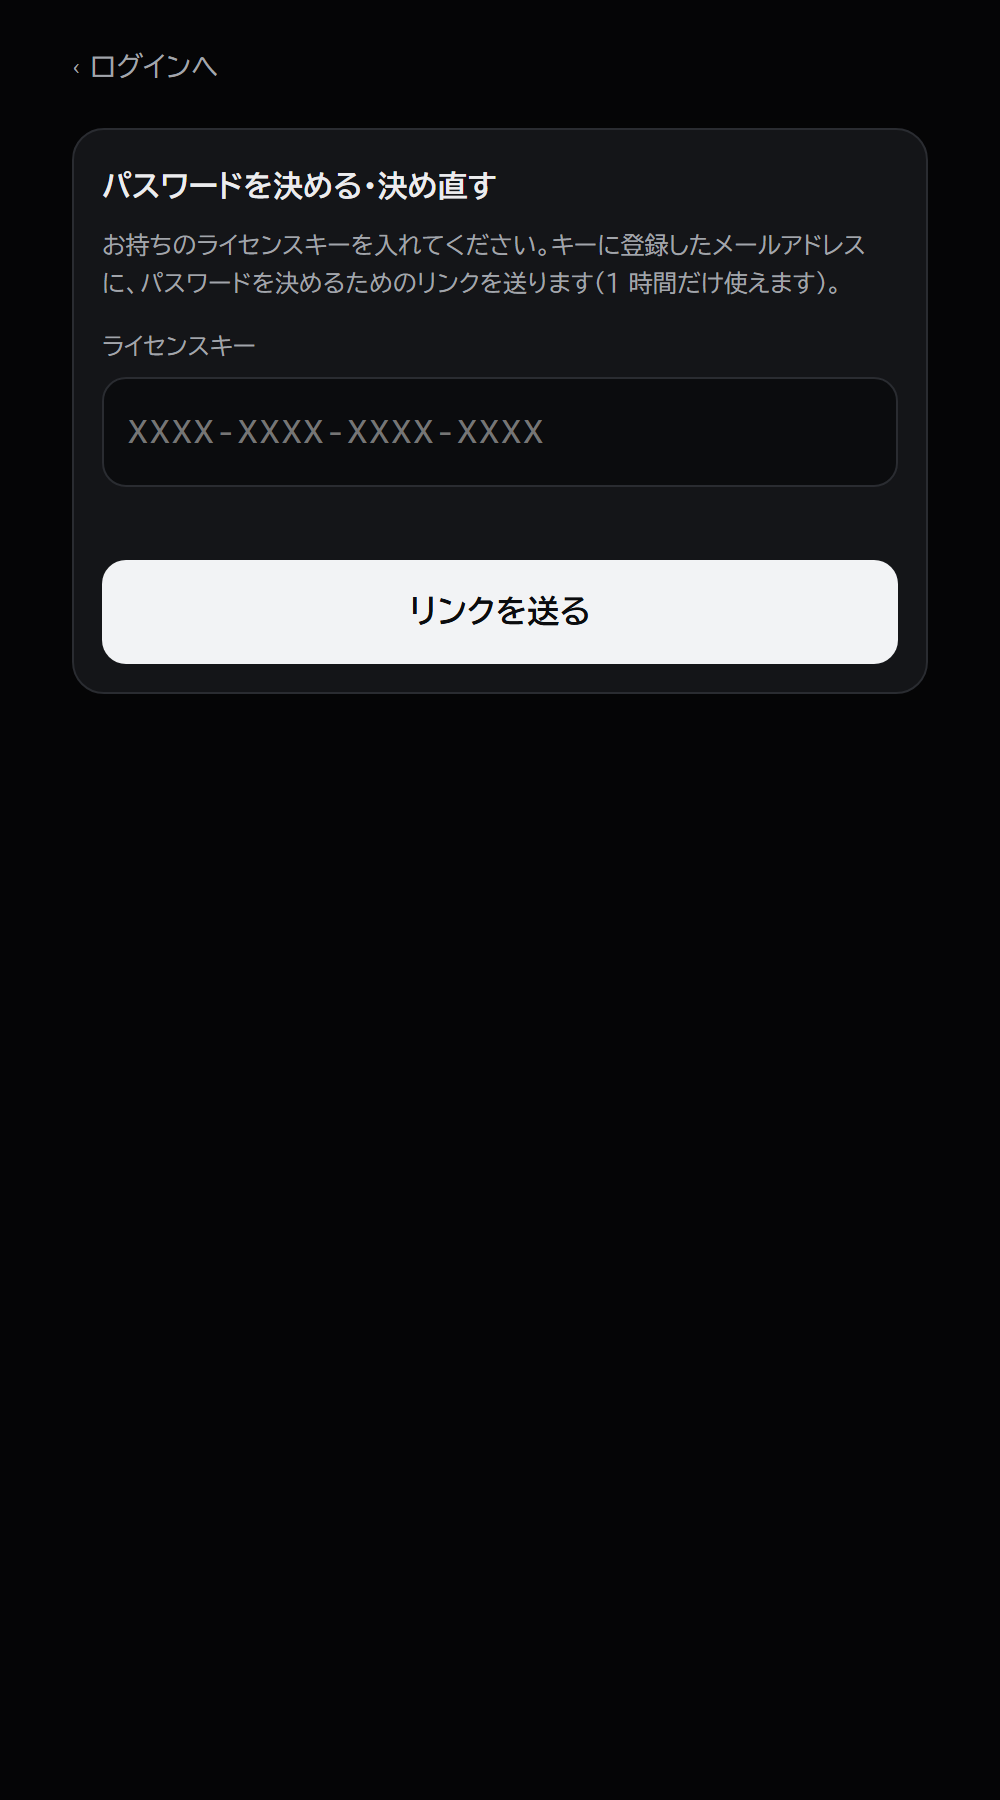
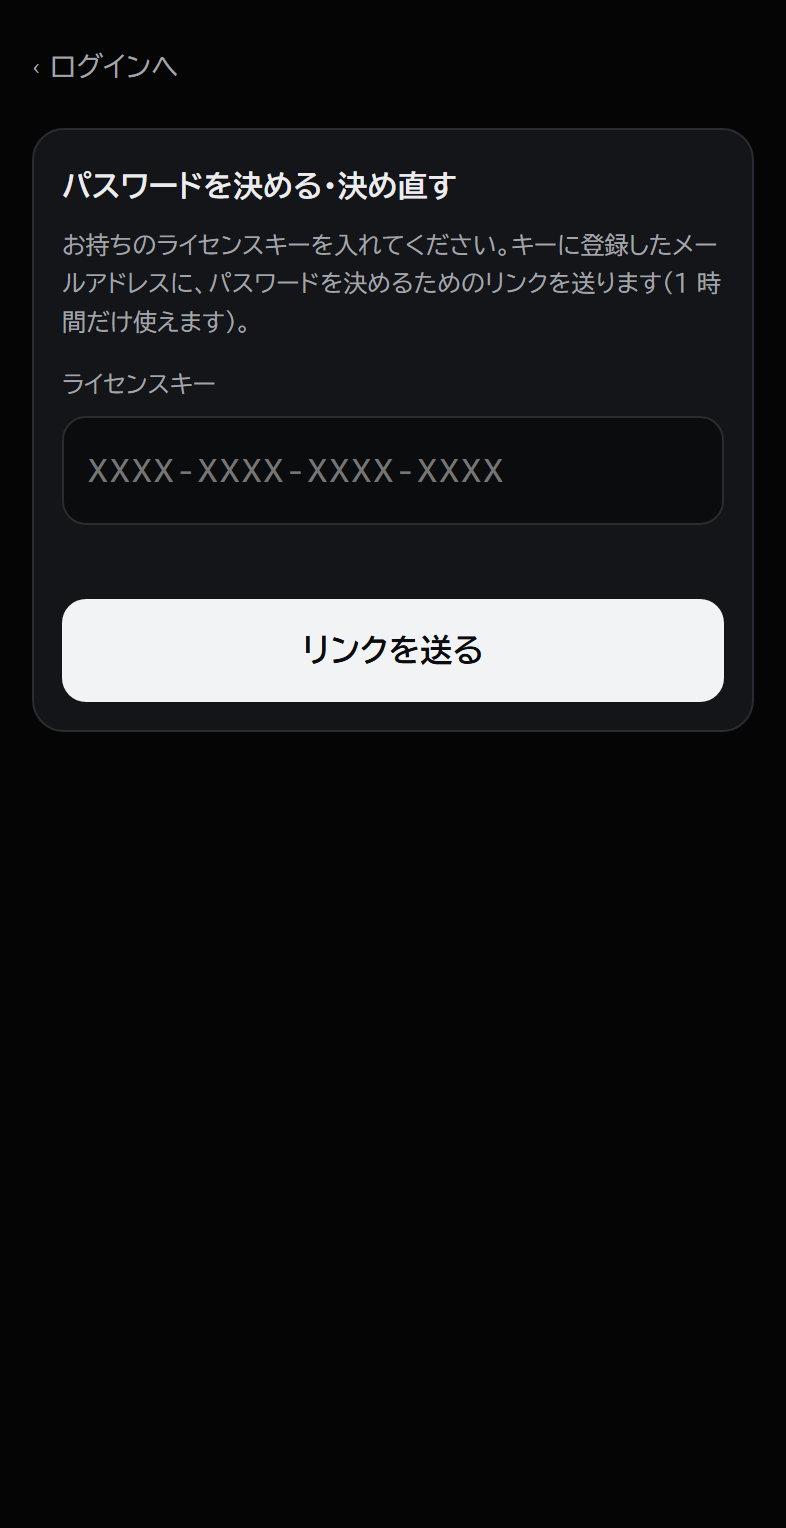
リモート: 下のボタンを全画面に、iPhone 実寸の写真、表示モードの説明。マドの表紙をチャートの絵に、REMOTE のカード

Changed region(s): [[0.0611, 0.2768, 0.9466, 0.4614], [0.0611, 0.0923, 0.916, 0.2768], [0.0611, 0.0308, 0.2137, 0.0615]]

diff --git a/app.html b/app.html
@@ -3,7 +3,7 @@
 <head>
 <meta charset="utf-8">
 <meta name="viewport" content="width=device-width, initial-scale=1">
-<title>HAMA REMOTE（リモート） | HAMA</title>
+<title>HAMA REMOTE | HAMA</title>
 <meta name="description" content="HAMA の EA のようすと設定を、スマホで見られるページ。登録のしかたと画面の見方。すべての EA で共通です。">
 <link rel="icon" href="img/hama_logo.svg" type="image/svg+xml">
 <link rel="preconnect" href="https://fonts.googleapis.com">
@@ -42,7 +42,10 @@ main a:not(.btn):active { color: #1a0b12; background: var(--pk); }
 .shots .ph::before { left: -5px; top: 18%; height: 7%; }
 .shots .ph::after  { right: -5px; top: 24%; height: 12%; }
 .shots .ph .vol { position: absolute; left: -5px; top: 29%; width: 3px; height: 10%; border-radius: 2px; background: linear-gradient(90deg, #6d7077, #a4a7ae); }
-.shots .scrn { position: relative; display: block; overflow: hidden; border-radius: 28px; background: #000; }
+/* 画面は実際の iPhone と同じ比率（393 × 852）: 上のステータスバー 54、中身 764、下のホームバー 34 */
+.shots .scrn { position: relative; display: flex; flex-direction: column; overflow: hidden; border-radius: 28px; background: #000; aspect-ratio: 393 / 852; }
+.shots .scrn .sb { flex: 0 0 6.34%; height: auto; }
+.shots .scrn img { flex: 0 0 89.67%; height: 89.67%; min-height: 0; object-fit: cover; object-position: top; }
 .shots .sb { display: flex; align-items: center; justify-content: space-between; height: 24px; padding: 0 14px 0 18px;
   color: #fff; font: 600 9.5px/1 -apple-system, "Helvetica Neue", Arial, sans-serif; letter-spacing: .02em; }
 .shots .sb svg { height: 8px; width: auto; display: block; }
@@ -78,7 +81,7 @@ main a:not(.btn):active { color: #1a0b12; background: var(--pk); }
   <div class="wrap" style="padding-top:48px;padding-bottom:48px">
     <span class="tag">REMOTE</span>
     <h1><span class="g">HAMA REMOTE</span></h1>
-    <p class="lead">HAMA REMOTE（リモート）は、EA のようすと損益を、外出先からスマホで確かめられるページです。ロットの量の切り替えや、新しいエントリーの停止もできます。すべての HAMA の EA で共通です。</p>
+    <p class="lead">HAMA REMOTE は、EA のようすと損益を、外出先からスマホで確かめられるページです。ロットの量の切り替えや、新しいエントリーの停止もできます。すべての HAMA の EA で共通です。</p>
     <a class="btn open-app" href="remote.html">リモートを開く <i>→</i></a>
   </div>
 </div>
@@ -156,6 +159,22 @@ main a:not(.btn):active { color: #1a0b12; background: var(--pk); }
     <tr><td>☰ メニュー</td><td>表示モード（自動・ライト・ダーク）、お知らせの受け取り方、ログアウトです。</td></tr>
   </table></div>
   <p style="color:var(--sub);margin-top:12px">損益は、HAMA の EA の取引だけです。ほかの EA や手動の取引は入りません。くわしい値動きは、MT5 のスマホアプリでご確認ください。</p>
+</div></section>
+
+<section><div class="wrap">
+  <h2>表示モード（自動・ライト・ダーク）</h2>
+  <p class="sub">画面の明るさは、右上の ☰ メニューの「表示モード」で選べます。はじめは「自動」です。</p>
+  <div class="shots three">
+    <figure><span class="ph"><i class="vol"></i><span class="scrn"><span class="sb"><b>9:41</b><span class="ic"><svg viewBox="0 0 17 11"><rect x="0" y="7" width="3" height="4" rx="1" fill="#fff"/><rect x="4.5" y="5" width="3" height="6" rx="1" fill="#fff"/><rect x="9" y="2.5" width="3" height="8.5" rx="1" fill="#fff"/><rect x="13.5" y="0" width="3" height="11" rx="1" fill="#fff"/></svg><svg viewBox="0 0 15 11"><path d="M7.5 2.2c2.2 0 4.2.8 5.7 2.2l1.3-1.4A10 10 0 0 0 .5 3l1.3 1.4a8.2 8.2 0 0 1 5.7-2.2zm0 3.6c1.2 0 2.3.4 3.1 1.2l1.3-1.4a6.3 6.3 0 0 0-8.8 0L4.4 7a4.4 4.4 0 0 1 3.1-1.2zM7.5 11l2-2.1a2.8 2.8 0 0 0-4 0z" fill="#fff"/></svg><svg viewBox="0 0 25 12"><rect x=".5" y=".5" width="21" height="11" rx="3" fill="none" stroke="#fff" stroke-opacity=".45"/><rect x="2" y="2" width="16" height="8" rx="1.6" fill="#fff"/><rect x="22.6" y="4" width="1.6" height="4" rx=".8" fill="#fff" fill-opacity=".45"/></svg></span></span><i class="isl"></i><img src="img/app/app_menu.png" alt="メニューの表示モード" loading="lazy"><i class="home"></i></span></span><figcaption><b>メニュー → 表示モード</b><span>右上の ☰ から選びます。</span></figcaption></figure>
+    <figure><span class="ph"><i class="vol"></i><span class="scrn"><span class="sb"><b>9:41</b><span class="ic"><svg viewBox="0 0 17 11"><rect x="0" y="7" width="3" height="4" rx="1" fill="#fff"/><rect x="4.5" y="5" width="3" height="6" rx="1" fill="#fff"/><rect x="9" y="2.5" width="3" height="8.5" rx="1" fill="#fff"/><rect x="13.5" y="0" width="3" height="11" rx="1" fill="#fff"/></svg><svg viewBox="0 0 15 11"><path d="M7.5 2.2c2.2 0 4.2.8 5.7 2.2l1.3-1.4A10 10 0 0 0 .5 3l1.3 1.4a8.2 8.2 0 0 1 5.7-2.2zm0 3.6c1.2 0 2.3.4 3.1 1.2l1.3-1.4a6.3 6.3 0 0 0-8.8 0L4.4 7a4.4 4.4 0 0 1 3.1-1.2zM7.5 11l2-2.1a2.8 2.8 0 0 0-4 0z" fill="#fff"/></svg><svg viewBox="0 0 25 12"><rect x=".5" y=".5" width="21" height="11" rx="3" fill="none" stroke="#fff" stroke-opacity=".45"/><rect x="2" y="2" width="16" height="8" rx="1.6" fill="#fff"/><rect x="22.6" y="4" width="1.6" height="4" rx=".8" fill="#fff" fill-opacity=".45"/></svg></span></span><i class="isl"></i><img src="img/app/app_home_light.png" alt="ライトモードの一覧" loading="lazy"><i class="home"></i></span></span><figcaption><b>ライト</b><span>明るい画面です。屋外でも見やすくなります。</span></figcaption></figure>
+    <figure><span class="ph"><i class="vol"></i><span class="scrn"><span class="sb"><b>9:41</b><span class="ic"><svg viewBox="0 0 17 11"><rect x="0" y="7" width="3" height="4" rx="1" fill="#fff"/><rect x="4.5" y="5" width="3" height="6" rx="1" fill="#fff"/><rect x="9" y="2.5" width="3" height="8.5" rx="1" fill="#fff"/><rect x="13.5" y="0" width="3" height="11" rx="1" fill="#fff"/></svg><svg viewBox="0 0 15 11"><path d="M7.5 2.2c2.2 0 4.2.8 5.7 2.2l1.3-1.4A10 10 0 0 0 .5 3l1.3 1.4a8.2 8.2 0 0 1 5.7-2.2zm0 3.6c1.2 0 2.3.4 3.1 1.2l1.3-1.4a6.3 6.3 0 0 0-8.8 0L4.4 7a4.4 4.4 0 0 1 3.1-1.2zM7.5 11l2-2.1a2.8 2.8 0 0 0-4 0z" fill="#fff"/></svg><svg viewBox="0 0 25 12"><rect x=".5" y=".5" width="21" height="11" rx="3" fill="none" stroke="#fff" stroke-opacity=".45"/><rect x="2" y="2" width="16" height="8" rx="1.6" fill="#fff"/><rect x="22.6" y="4" width="1.6" height="4" rx=".8" fill="#fff" fill-opacity=".45"/></svg></span></span><i class="isl"></i><img src="img/app/app_home.png" alt="ダークモードの一覧" loading="lazy"><i class="home"></i></span></span><figcaption><b>ダーク</b><span>暗い画面です。夜もまぶしくありません。</span></figcaption></figure>
+  </div>
+  <ul class="check" style="margin-top:18px">
+    <li><b>自動</b>：スマホの設定（ライト・ダーク）に合わせて、自動で切り替わります</li>
+    <li><b>ライト</b>：いつも明るい画面で表示します</li>
+    <li><b>ダーク</b>：いつも暗い画面で表示します</li>
+    <li>選んだモードは、このスマホが覚えています。次に開いたときも同じです</li>
+  </ul>
 </div></section>
 
 <section><div class="wrap">

diff --git a/remote.html b/remote.html
@@ -61,6 +61,7 @@ button{cursor:pointer}
 .accs .ab{text-align:right;font-weight:700;font-size:14px;white-space:nowrap}
 .accs .ab .bad{display:block;font-size:11px;color:var(--red);font-weight:400}
 .tabbar{position:fixed;left:0;right:0;bottom:0;z-index:10;display:flex;justify-content:center;gap:4px;padding:6px 8px calc(6px + env(safe-area-inset-bottom));background:var(--card);border-top:1px solid var(--line)}
+.tabbar[hidden]{display:none}
 .tabbar button{flex:1;max-width:150px;background:transparent;border:0;border-radius:10px;color:var(--sub);font-size:12px;padding:5px 0;display:flex;flex-direction:column;align-items:center;gap:1px;position:relative}
 .tabbar button b{font-size:16px;line-height:1.3;position:relative;opacity:.45}
 .tabbar button.on{color:var(--tx);font-weight:700}
@@ -87,7 +88,7 @@ button{cursor:pointer}
 .st2 tr.sum td{border-top:2px solid var(--line)}
 .scroll-x{overflow-x:auto;-webkit-overflow-scrolling:touch}
 .chart{display:block;width:100%;height:auto}
-#home{padding-bottom:70px}
+#home,#detail,#score,#notice{padding-bottom:calc(76px + env(safe-area-inset-bottom))}
 .menubtn{display:flex;flex-direction:column;justify-content:center;align-items:center;gap:4px}
 .menubtn span{display:block;width:16px;height:2px;background:var(--tx);border-radius:2px}
 .menu{position:fixed;inset:0;z-index:20}
@@ -248,13 +249,15 @@ h2{font-size:15px;margin:2px 0 8px}
 </div>
 </div>
 <div class="list" id="ealist"></div>
-<nav class="tabbar" id="accseg">
+</div>
+
+<!-- 下のボタン（ログインしたあとの、どの画面にも出す） -->
+<nav class="tabbar" id="accseg" hidden>
 <button class="real" data-acc="real"><b>●</b>リアル口座</button>
 <button data-acc="demo"><b>●</b>デモ口座</button>
 <button class="sc" id="toscore"><b>📊</b>成績</button>
-<button class="bell" data-go="notice"><b>🔔<em id="badge" hidden></em></b>お知らせ</button>
+<button class="bell" id="tonotice"><b>🔔<em id="badge" hidden></em></b>お知らせ</button>
 </nav>
-</div>
 
 <!-- メニュー -->
 <div class="menu" id="menu" hidden>
@@ -308,7 +311,7 @@ const EA = { TRE: ['TREND G3', 'tre'], NAMI: ['NAMITORE G4', 'nami'], MADO: ['MA
 const LOTN = ['攻め', '標準', '守り'];
 const LOST_MS = 6 * 60 * 1000;   // これより長く連絡がなければ「オフライン」
 // このページの版（アップのたびに変える）。開いたとき・戻ってきたときに新しい版があれば、自動で読み込み直す
-const PAGE_VER = '20261124s';
+const PAGE_VER = '20261124u';
 async function checkVer() {
   try {
     const t = await (await fetch(location.pathname + '?v=' + Date.now(), { cache: 'no-store' })).text();
@@ -330,7 +333,17 @@ async function api(op, body) {
   const r = await fetch(API, { method: 'POST', body: JSON.stringify(Object.assign({ op, tok }, body || {})) });
   return r.json();
 }
-function show(s) { document.querySelectorAll('.scr').forEach(e => e.classList.toggle('on', e.id === s)); window.scrollTo(0, 0); if (s === 'notice') markRead(); }
+// 下のボタンは、ログインしたあとの画面（一覧・詳細・成績・お知らせ）すべてに出す。今の画面のボタンを光らせる
+const TAB_SCR = ['home', 'detail', 'score', 'notice'];
+let curScr = '';
+function paintTabs() {
+  const t = $('accseg'); if (!t) return;
+  t.hidden = TAB_SCR.indexOf(curScr) < 0;
+  t.querySelectorAll('button[data-acc]').forEach(b => b.classList.toggle('on', (curScr === 'home' || curScr === 'detail') && b.dataset.acc === cur));
+  $('toscore').classList.toggle('on', curScr === 'score');
+  $('tonotice').classList.toggle('on', curScr === 'notice');
+}
+function show(s) { curScr = s; document.querySelectorAll('.scr').forEach(e => e.classList.toggle('on', e.id === s)); window.scrollTo(0, 0); paintTabs(); if (s === 'notice') markRead(); }
 document.querySelectorAll('[data-go]').forEach(b => b.onclick = () => show(b.dataset.go));
 
 // 表示モード
@@ -462,7 +475,7 @@ function accounts() {
 function renderHome() {
   const has = { real: data.units.some(u => !u.demo), demo: data.units.some(u => u.demo) };
   if (!has[cur] && has[cur === 'real' ? 'demo' : 'real']) cur = cur === 'real' ? 'demo' : 'real';
-  document.querySelectorAll('#accseg button[data-acc]').forEach(b => b.classList.toggle('on', b.dataset.acc === cur));
+  paintTabs();
   const accs = accounts(), ids = Object.keys(accs);
   if (!accSel || ids.indexOf(accSel) < 0) accSel = ids[0] || null;
   const kind = cur === 'real' ? 'リアル口座' : 'デモ口座';
@@ -493,7 +506,9 @@ function renderHome() {
     return `<button class="ea" style="--c:var(--${e[1]})" data-u="${u.unit}"><span class="bar"></span><span><div class="nm">${e[0]}</div><div class="st ${st[0]}"><i></i>${st[1]}</div>${st[1] !== 'オフライン' && detailOf(u) ? `<div class="dt">${esc(detailOf(u).split('\n')[0])}</div>` : ''}</span><span><div class="lbl" style="text-align:right">含み損益</div><div class="pl ${cls(d)}">${money(d, c)}</div><div class="pls" style="text-align:right">決済 <b class="${cls(dd)}">${money(dd, c)}</b></div></span><span class="ch">›</span></button>`; }).join('');
   $('ealist').querySelectorAll('.ea').forEach(b => b.onclick = () => { sel = b.dataset.u; renderDetail(); show('detail'); });
 }
-document.querySelectorAll('#accseg button[data-acc]').forEach(b => b.onclick = () => { cur = b.dataset.acc; store.set('hama_acc', cur); accSel = null; renderHome(); });
+// リアル口座・デモ口座: どの画面からでも、その口座の一覧に戻る
+document.querySelectorAll('#accseg button[data-acc]').forEach(b => b.onclick = () => { const same = cur === b.dataset.acc; cur = b.dataset.acc; store.set('hama_acc', cur); if (!same) accSel = null; renderHome(); show('home'); });
+$('tonotice').onclick = () => show('notice');
 
 function renderDetail() {
   const u = data.units.find(x => x.unit === sel);
@@ -658,12 +673,14 @@ document.querySelectorAll('#minseg button').forEach(b => b.onclick = () => saveP
   const sh = MOCK && (location.search.match(/[?&]shot=(\w+)/) || [])[1];
   if (sh) {
     if (/[?&]dark=1/.test(location.search)) document.documentElement.setAttribute('data-theme', 'dark');
+    if (/[?&]light=1/.test(location.search)) document.documentElement.setAttribute('data-theme', 'light');
     if (sh === 'first' || sh === 'setpw' || sh === 'login') { show(sh); return; }
     tok = 'mock';
     load(true).then(() => {
       if (sh === 'detail' || sh === 'set') { const b = document.querySelector('#ealist .ea'); if (b) b.click(); if (sh === 'set') { const l = $('lotseg'); if (l) $('dbody').querySelectorAll('.card.pos').forEach(c => c.style.display = 'none'); } }
       else if (sh === 'score') openScore();
       else if (sh === 'notice') show('notice');
+      else if (sh === 'menu') { menu(true); document.querySelector('.msheet').style.animation = 'none'; }
     });
     return;
   }

diff --git a/index.html b/index.html
@@ -18,6 +18,15 @@
 .hs-remote .hs-badge { left: auto; right: 8px; bottom: 6px; background: #ff4f9a; color: #fff; }
 .hs-remote .hs-more { transition: background .15s, color .15s; }
 .hs-remote:hover .hs-more { background: #ff4f9a; color: #fff; }
+/* マドのカード: 表紙のチャート（窓を埋める所）は右寄りにあるので、右側を見せる */
+.card.ea-mado .img { background-position: 88% center; }
+/* 下の HAMA REMOTE のカード（ピンク・斜めの iPhone） */
+.card.ea-remote { --c: #ff4f9a; --c2: #ffc2dc; --cbg: #2a0f1c; }
+.card.ea-remote .img { position: relative; display: flex; align-items: center; justify-content: center; padding: 18px 14px 12px;
+  background: radial-gradient(70% 80% at 55% 50%, rgba(255,47,134,.28), transparent 70%), #120a0e; }
+.card.ea-remote .img img { position: relative; z-index: 1; display: block; width: 100%; max-height: 300px; object-fit: contain; filter: drop-shadow(0 16px 26px rgba(0,0,0,.6)); }
+.card.ea-remote .img::before { content: "イメージ（架空の数値）"; position: absolute; right: 12px; bottom: 12px; z-index: 2; font-size: 12px; font-weight: 700; color: #fff; background: #ff4f9a; border-radius: 99px; padding: 3px 12px; }
+@media (max-width: 640px) { .card.ea-remote .img img { max-height: 230px; } }
 /* REPORT のモニターは大きめに（右の列を広く） */
 .hs-report .hs-split { grid-template-columns: minmax(0, 1fr) minmax(0, 1.6fr); gap: 12px; }
 .hs-report .hs-phones img { max-width: 860px; max-height: 600px; margin-right: -40px; }
@@ -72,7 +81,7 @@
    </div>
   </a>
   <a class="hs-slide hs-ea" href="mado.html" style="--c:#4fc27f;--c2:#c9f2d9" aria-roledescription="slide" aria-label="4 / 6">
-   <div class="hs-bg" style="background-image:url(img/madoume_cover.jpg)"></div>
+   <div class="hs-bg" style="background-image:url(img/madoume_cover_chart.jpg)"></div>
    <div class="wrap hs-in">
     <span class="hs-nick">押し目の積み増し</span>
     <p class="hs-title">HAMA MADOUME G7</p>
@@ -159,7 +168,7 @@
       </div>
     </a>
     <a class="card ea-mado" href="mado.html">
-      <div class="img" style="background-image:url(img/madoume_cover.jpg)"></div>
+      <div class="img" style="background-image:url(img/madoume_cover_chart.jpg)"></div>
       <div class="body">
         <span class="nick">押し目の積み増し</span>
         <h3>HAMA MADOUME G7</h3>
@@ -187,9 +196,19 @@
 </div></section>
 
 <section><div class="wrap">
-  <h2>HAMA REMOTE（リモート）</h2>
-  <p class="sub">EA のようすと損益を、外出先からスマホで確かめられます。ロットの量の切り替えや、新しいエントリーの停止もできます。EA が止まったときは、お知らせで知らせます。</p>
-  <p style="margin-top:16px"><a class="btn ghost" href="app.html">使い方と登録のしかた <i>→</i></a></p>
+  <h2>HAMA REMOTE</h2>
+  <p class="sub">HAMA の EA は、外出先からスマホで、ようすを確かめられます。</p>
+  <div class="cards rows">
+    <a class="card ea-remote" href="app.html">
+      <div class="img"><img src="img/remote_phones_r.png" alt="HAMA REMOTE の画面のイメージ（架空の数値）" loading="lazy"></div>
+      <div class="body">
+        <span class="nick">スマホで見る（すべての EA 共通）</span>
+        <h3>HAMA <span style="color:#ff4f9a">REMOTE</span></h3>
+        <p>EA のようすと損益を、外出先からスマホで。<br>ロットの量の切り替えもできて、<br>EA が止まったら、お知らせで知らせます。</p>
+        <span class="more">VIEW MORE <i>→</i></span>
+      </div>
+    </a>
+  </div>
 </div></section>
 
 <section class="demo-cta"><div class="wrap">
